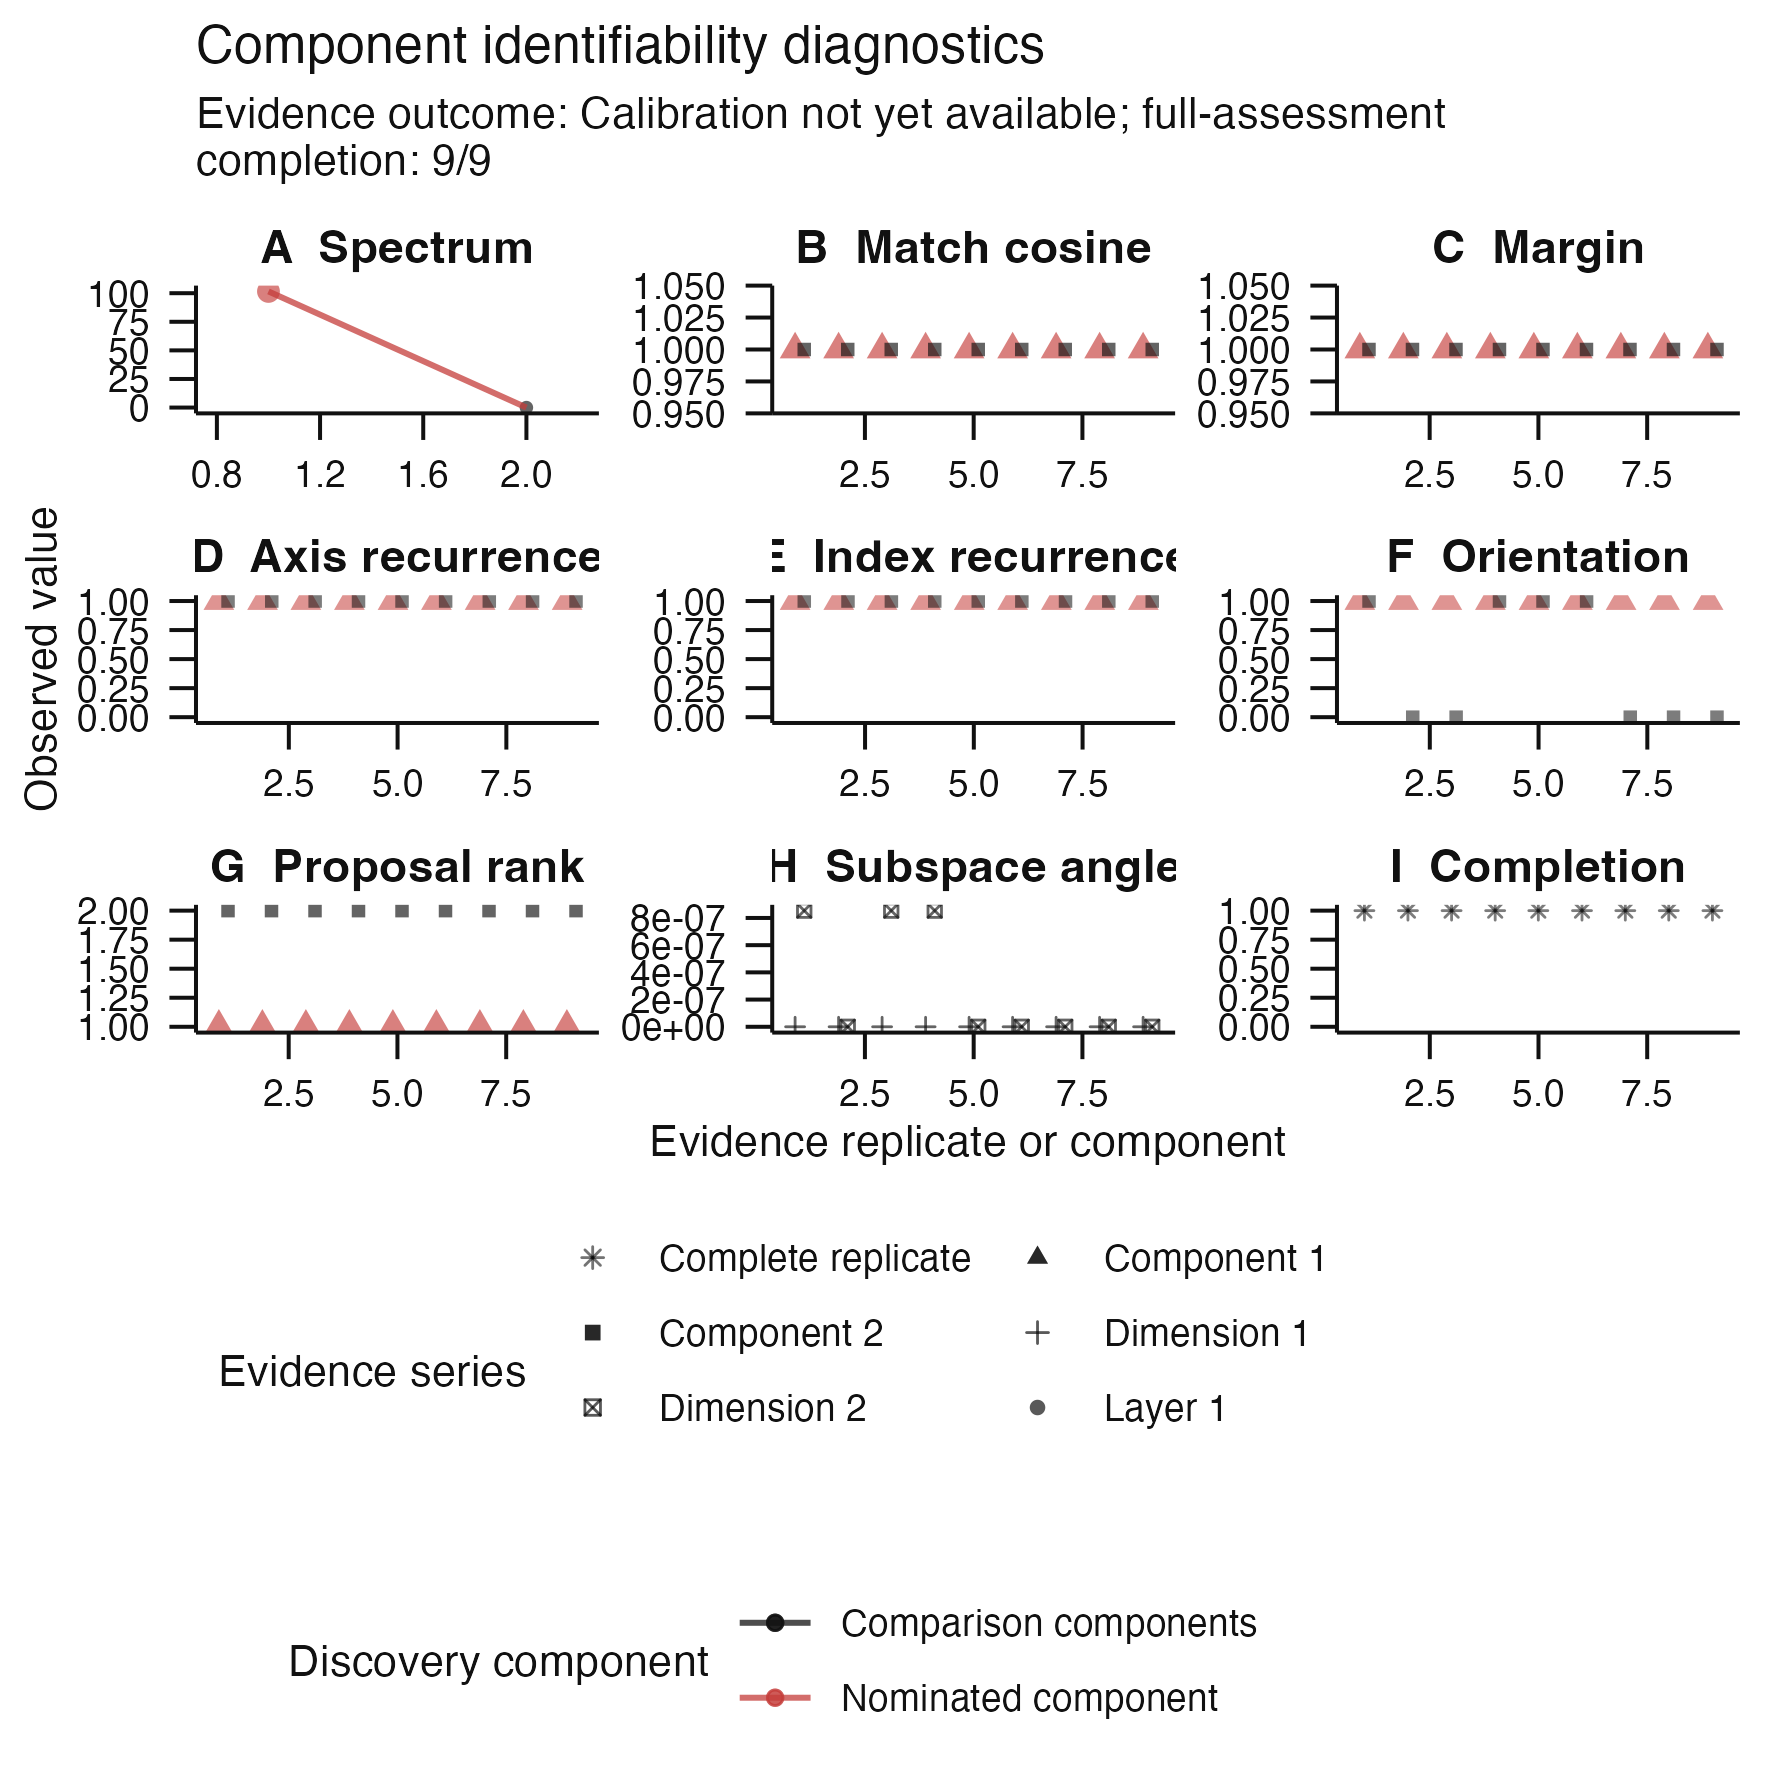
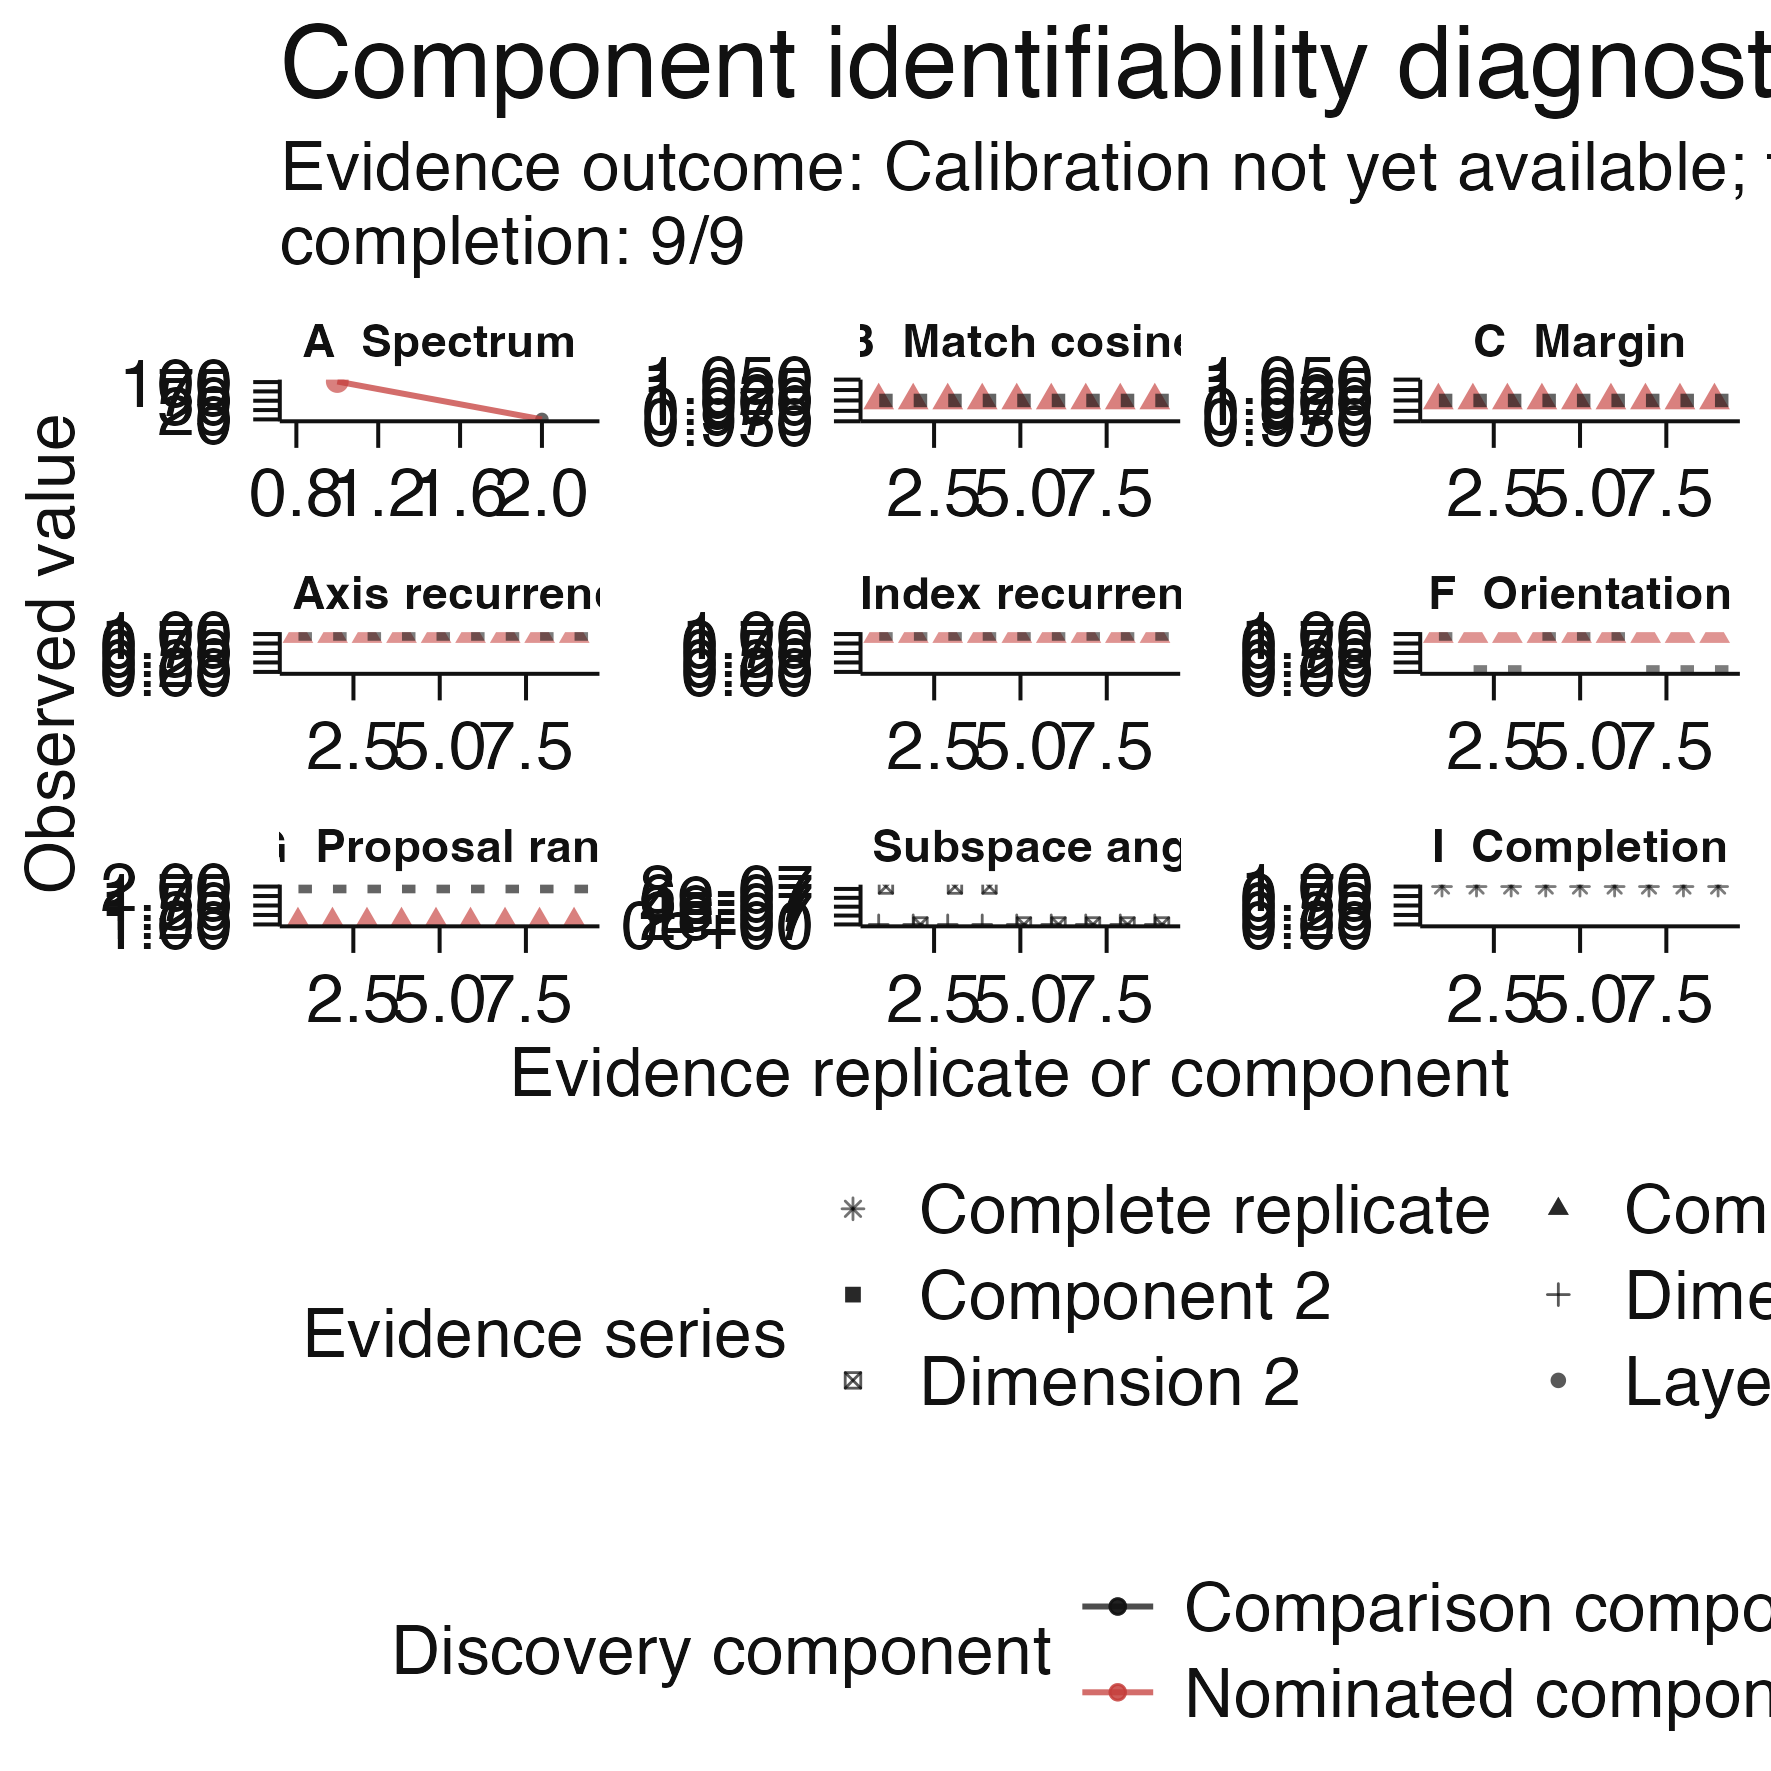
Add compact diagnostic proof layout

diff --git a/.github/landing-proof/issue-229/README.md b/.github/landing-proof/issue-229/README.md
@@ -3,8 +3,9 @@ Issue #229 visual proof
 The before images are retained issue #226 native artifacts, copied
 verbatim to preserve the observed overplotting failure.
 
-The after images use the same scientific evidence. Identifiability
-comparison series are separated at shared evidence positions. Stage 2
+The after images are representative synthetic renders from the same
+plotting functions. Identifiability comparison series are separated at
+shared evidence positions. Stage 2
 critical-point symbols are offset only for display and connected by
 dashed stems to their exact stored coordinates. Native 100 mm and
 reduced 80 mm renderings are both retained for inspection.
